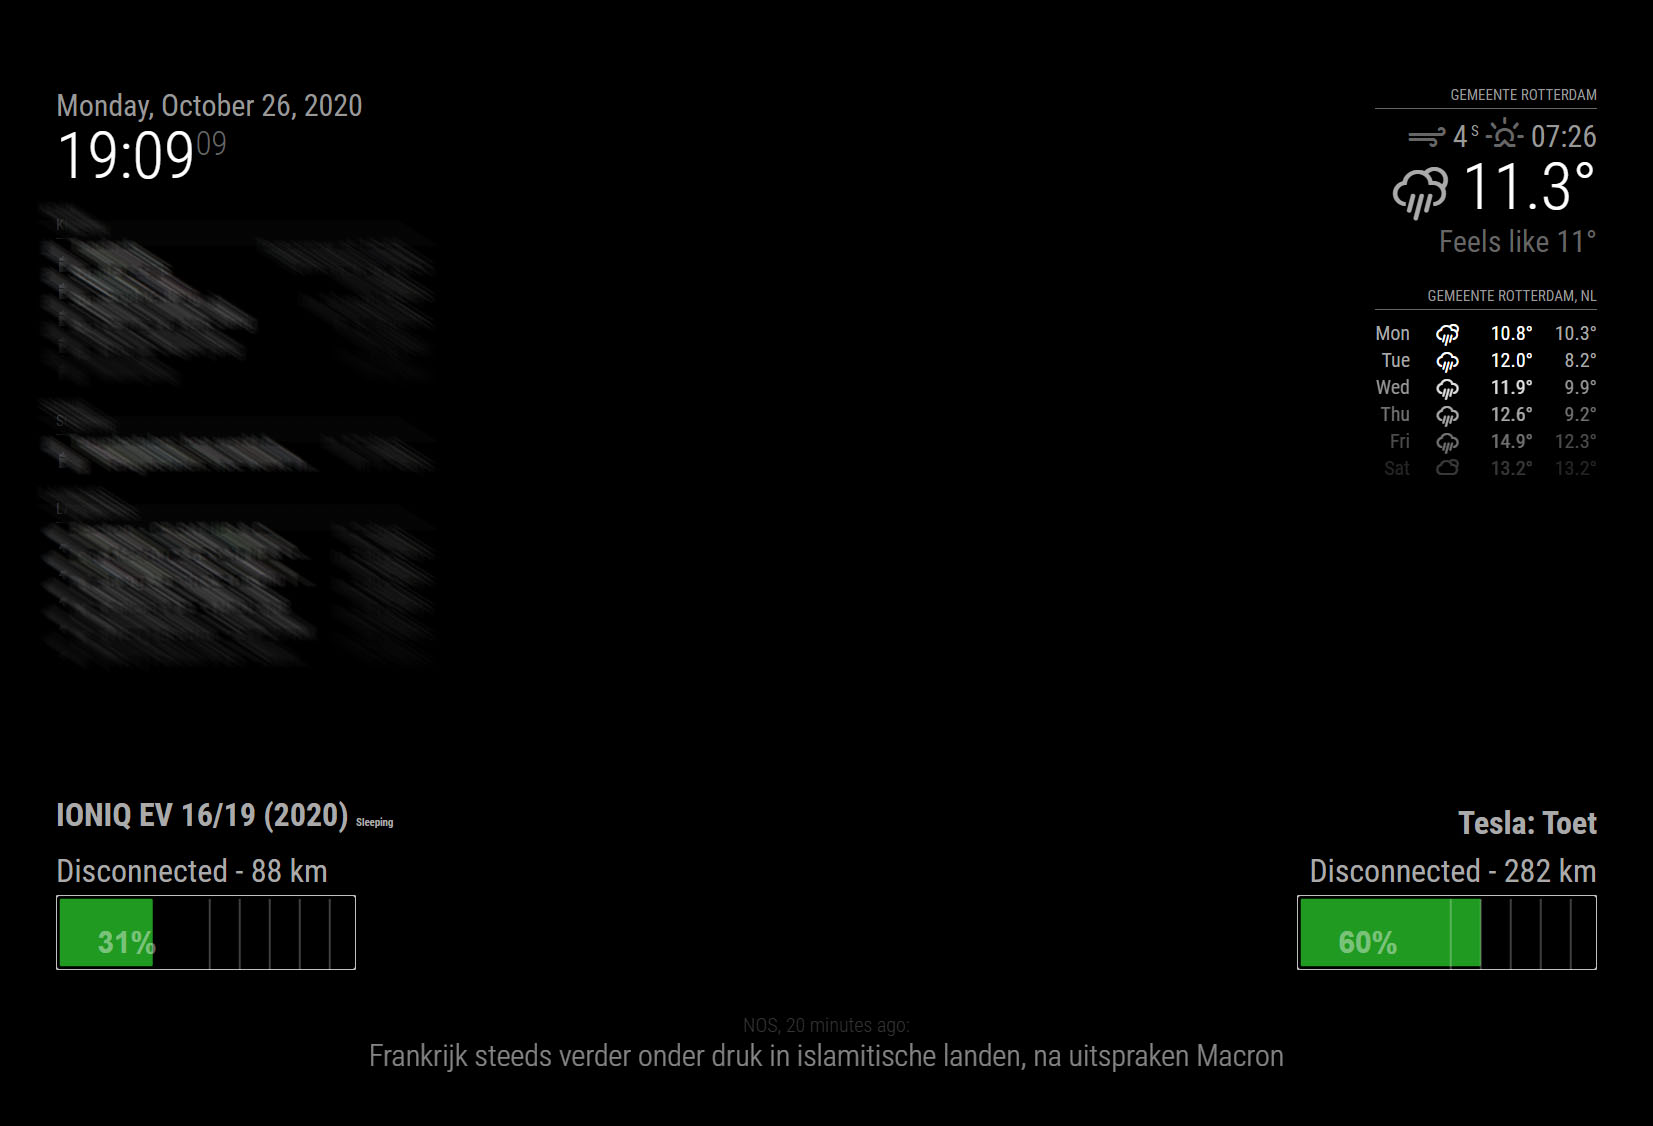
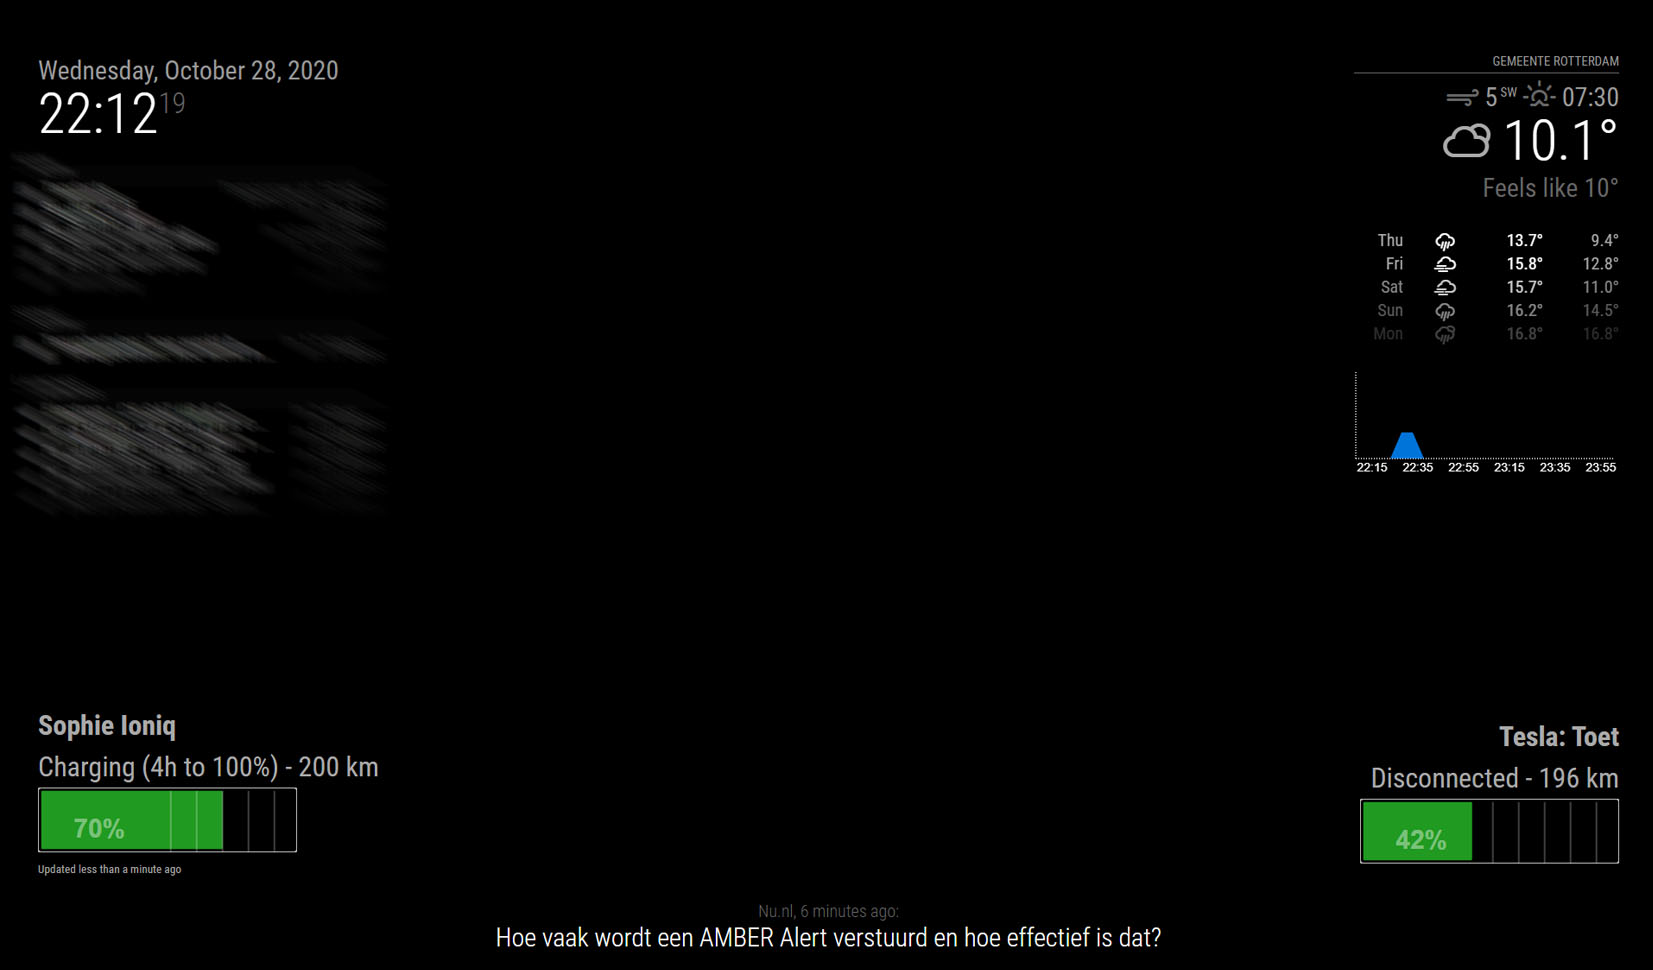
update default config; add last updated text; update image

diff --git a/MMM-Bluelinky.js b/MMM-Bluelinky.js
@@ -10,13 +10,12 @@
 Module.register("MMM-Bluelinky",{
 
 	defaults: {
-		refreshInterval: 1000 * 60 * 5, // refresh every 5 minutes
-		updateInterval: 1000 * 60 * 5, // update every 5 minutes
-		timeFormat: config.timeFormat,
-		lang: config.language,
-
-		initialLoadDelay: 0, // 0 seconds delay
-		retryDelay: 2500
+		refreshInterval: 1000 * 60 * 60, // refresh every 5 minutes
+		refreshIntervalWhileCharging: 1000 * 60 * 10, // update every 10 minutes
+		wakeOnModuleLoad: false,
+		wakeOnRefresh: false,
+		showLastUpdated: true,
+		region: 'US',
 	},
 
 	// Define required scripts.
@@ -31,6 +30,7 @@ Module.register("MMM-Bluelinky",{
 	start: function() {
 		Log.info('Starting module: ' + this.name);
 		this.loaded = false;
+		this.latestData = Date.now();
 		this.sendSocketNotification('BLUELINKY_CONFIG', this.config);
 	},
 
@@ -53,7 +53,7 @@ Module.register("MMM-Bluelinky",{
 		if(this.charging_state == "Charging") {
 			const timeLeft = this.vehicleData.evStatus.remainTime2.atc.value/60;
 			var prettyPrintedState = this.charging_state + ' ('
-			+ Math.floor(timeLeft) + 'h to 100%)';
+			+ Math.floor(timeLeft) + 'h to go)';
 		}
 		else {
 			var prettyPrintedState = this.charging_state;
@@ -138,10 +138,17 @@ Module.register("MMM-Bluelinky",{
 		svg.appendChild(shiftedContentContainer);
 		wrapper.appendChild(svg);
 
+		var timeago = document.createElement("div");
+		timeago.innerText = this.updateAgo;
+		timeago.style.fontSize = "10pt";
+		timeago.style.lineHeight = "10pt"
+		wrapper.appendChild(timeago);
+
 		return wrapper;
 	},
 
 	processVehicleData: function(data) {
+		this.latestData = Date.now();
 		console.log('Process vehicle data BlueLinky:', data);
     this.vehicleData = data;
     this.vehicle_name = data.name;
@@ -152,6 +159,8 @@ Module.register("MMM-Bluelinky",{
 	},
 
  	socketNotificationReceived: function(notification, payload) {
+		if (this.timer) clearTimeout(this.timer);
+		this.updateAgo = 'Updated less than a minute ago';
 		if (notification === "STARTED") {
 			this.updateDom();
 		}
@@ -160,6 +169,18 @@ Module.register("MMM-Bluelinky",{
       this.loaded = true;
 			this.processVehicleData(payload);
 			this.updateDom();
+		}
+
+		if (this.config.showLastUpdated) {
+			// "Last update 1m ago" function:
+			this.timer = () => setTimeout(() => {
+				const ms = Date.now() - this.latestData;
+				const newtime = Math.floor(ms / 1000 / 60)
+				this.updateAgo = `Updated ${ms < 60 ? 'less than a minute' : `${newtime === 1 ? `${newtime} minute` : `${newtime} minutes`}`} ago`
+				this.timer();
+				this.updateDom();
+			}, 60000)
+			this.timer();
 		}
 	},
 });

diff --git a/node_helper.js b/node_helper.js
@@ -22,12 +22,8 @@ module.exports = NodeHelper.create({
     const config = {
       username: this.config.username,
       password: this.config.password,
-      region: this.config.region || 'US',
+      region: this.config.region,
       pin: this.config.pin,
-      refreshInterval: this.config.refreshInterval || 1000 * 60 * 60,
-      refreshIntervalWhileCharging: this.config.refreshIntervalWhileCharging || 1000 * 60 * 10,
-      wakeOnModuleLoad: this.config.wakeOnModuleLoad || false,
-      wakeOnRefresh: this.config.wakeOnModuleLoad || false,
     };
     const client = new Bluelinky(config);
 

diff --git a/README.md b/README.md
@@ -33,17 +33,18 @@ Copy the example config to your MagicMirror config file:
   }
 },
 ```
-| key  | Required | Description | Example |
-| - | - | - | - |
-| username  | yes  | Your bluelink username | `user@provider.com` |
-| password  | yes | Your bluelink password | `B3tterTh4nG4z!` |
-| pin  | yes | The pin you use to refresh bluelink data in the app | `1234` |
-| region| yes | `EU` `CA` or `US` | `EU` (Default: `US`) |
-| name | no | Optional name | `John's Hyundai` |
-| refreshInterval | no | When should the data be refreshed when not charging? | `1000 * 60 * 30` for 30 minutes (Default: `1000 * 60 * 60` (60 minutes))
-| refreshIntervalWhileCharging | no | When should the data be refreshed when the car is charging? | `1000 * 60 * 5` for 30 minutes (Default: `1000 * 60 * 10`)
-| wakeOnModuleLoad | no | When true, on initial module load the car will be woken up when in sleep mode to get the latest data | `true` (Default: `False`)
-| wakeOnRefresh | no | When set to true, the car will be woken up every time the module refreshes his data (see refreshInterval) | `true` (Default: `False`)
+| key  | Required | Description | Example | Default |
+| - | - | - | - | - |
+| username  | yes  | Your bluelink username | `user@provider.com` |  |
+| password  | yes | Your bluelink password | `B3tterTh4nG4z!` |  |
+| pin  | yes | The pin you use to refresh bluelink data in the app | `1234` |  |
+| region| yes | `EU` `CA` or `US` | `EU` | `US` |
+| name | no | Optional name | `John's Hyundai` |  |
+| refreshInterval | no | When should the data be refreshed when not charging? | `1000 * 60 * 30` for 30 minutes | `1000 * 60 * 60` (60 minutes) |
+| refreshIntervalWhileCharging | no | When should the data be refreshed when the car is charging? | `1000 * 60 * 5` for 30 minutes | `1000 * 60 * 10` (10 minutes) |
+| wakeOnModuleLoad | no | When true, on initial module load the car will be woken up when in sleep mode to get the latest data | `true` | `false` |
+| wakeOnRefresh | no | When set to true, the car will be woken up every time the module refreshes his data (see refreshInterval) | `true` | `false` |
+| showLastUpdated | no | Show 'Updated 4 minutes ago' at the bottom | `true` | `true` |
 
 ## Preview
 ![Test Image 3](/preview.jpg)
